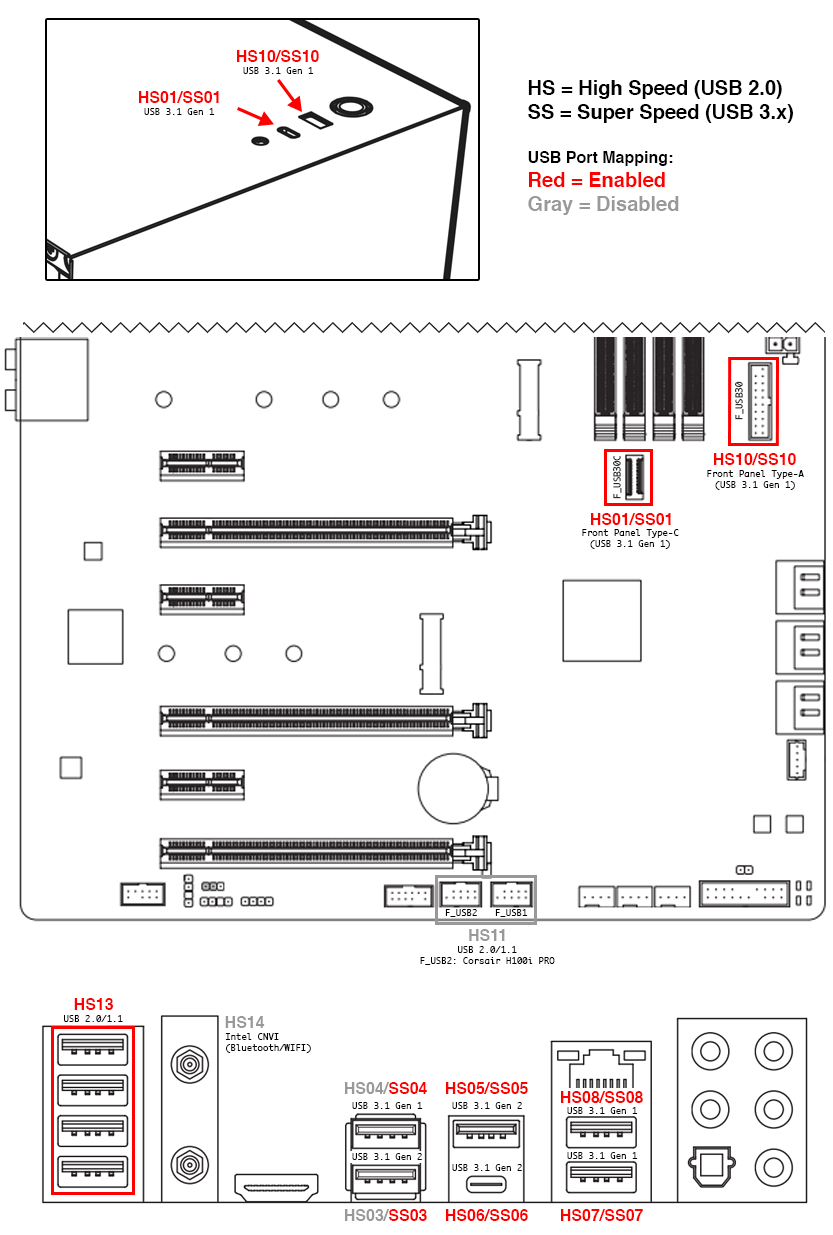
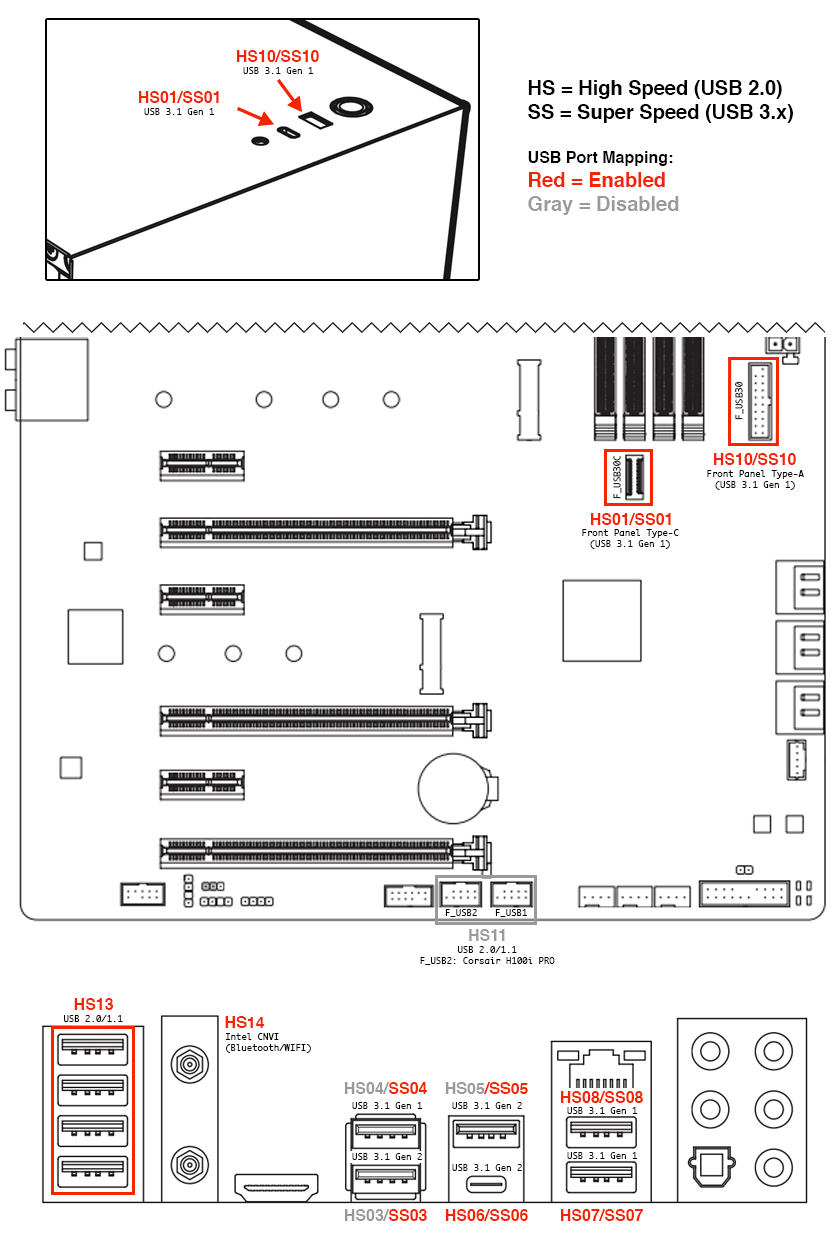
Updated guide for enabling native Bluetooth

diff --git a/README.md b/README.md
@@ -20,6 +20,7 @@ Installation guide for my vanilla Hackintosh v3 build dual-booting macOS Catalin
   * [Make macOS Drive Bootable](#make-macos-drive-bootable)
   * [Enable the Discrete Graphics Card with Headless iGPU](#enable-the-discrete-graphics-card-with-headless-igpu)
   * [Map USB Ports](#map-usb-ports)
+  * [Enable Bluetooth](#enable-bluetooth)
   * [Enable FileVault](#enable-filevault)
   * [Enable TRIM for Solid State Drives](#enable-trim-for-solid-state-drives)
   * [Fix CPU Type in About This Mac](#fix-cpu-type-in-about-this-mac)
@@ -271,9 +272,10 @@ _If you have the Gigabyte Z390 AORUS PRO WIFI motherboard and want the same USB 
     1. Press `a` then `[enter]` to enable all ports
     2. Using the list of identified ports, enter the numbers of the ports you want to **disable**
         * No more than 15 XHC ports can be enabled
-        * `2,3,4,9,11,12,14,15,16,18,25` → `HS02,HS03,HS04,HS09,HS11,HS12,HS14,USR1,USR2,SS02,SS09`
-          * Disables Bluetooth, AIO control, and USB 2.0 for the two ports immediately beneath the HDMI port
-        * The enabled ports are red and the disabled ports are gray in the image above
+        * `2,3,4,5,9,11,12,15,16,18,25` → `HS02,HS03,HS04,HS05,HS09,HS11,HS12,USR1,USR2,SS02,SS09`
+          * Disables AIO control via the internal header and USB 2.0 for three rear Type-A ports
+          * If you don't need Bluetooth, you can disable `HS14` and enable one of the disabled USB 2.0 ports
+        * The **enabled ports are red** and the **disabled ports are gray** in the image above
     3. Press `k` then `[enter]` to build the custom USBMap.kext file
     4. Allow the program to move the files to your EFI partition or copy them manually:
         * `USBMap.kext` → [`EFI/CLOVER/kexts/Other/`](EFI/CLOVER/kexts/Other/)
@@ -287,6 +289,15 @@ _If you have the Gigabyte Z390 AORUS PRO WIFI motherboard and want the same USB 
       * Remove the `com.apple.driver.usb.AppleUSBXHCI` kext patch
 6. Delete the `USBInjectAll.kext` from `EFI/CLOVER/kexts/Other/` on the EFI partition of `Macintosh SSD`
 7. You should now have fully custom-mapped USB ports on your system! Use the USBMap script after a reboot to verify the correct ports are enabled.
+
+### Enable Bluetooth
+
+The Intel CNVi modules that provide integrated Wi-Fi and Bluetooth functionality on motherboards are not natively supported by macOS but can be enabled using the [IntelBluetoothFirmware](https://github.com/zxystd/IntelBluetoothFirmware) kext on supported devices. The Gigabyte Z390 AORUS PRO WIFI contains a compatible [Intel Wireless-AC 9560](https://www.intel.com/content/www/us/en/products/wireless/wireless-products/dual-band-wireless-ac-9560.html) CNVi (Vendor ID: `0x8087`, Device ID: `0x0AAA`). [Hackintool](https://www.insanelymac.com/forum/topic/335018-hackintool-v286/) can be used to determine the specific model on your motherboard (`System > Peripherals > Bluetooth`).
+  * _Note: You must enable the internal USB port used by the CNVi module during the [USB mapping process](#map-usb-ports)._
+
+Download the [latest release](https://github.com/zxystd/IntelBluetoothFirmware/releases) and place the two kexts in [`EFI/CLOVER/kexts/Other/`](EFI/CLOVER/kexts/Other/). Reboot and you should be able to use Bluetooth on your Hackintosh.
+
+![Bluetooth System Report and Preferences](Screenshots/Post_Bluetooth.png)
 
 ### Enable FileVault
 
@@ -458,6 +469,7 @@ _All values are the average of three runs_
 
 ## Upgrade Log
 
+* 2020-04-18: Enabled integrated Bluetooth functionality using [IntelBluetoothFirmware v1.0.3](https://github.com/zxystd/IntelBluetoothFirmware). See the [Enable Bluetooth](#enable-bluetooth) section.
 * 2020-04-17: Upgraded to [Clover Configurator v5.10.0.0](http://mackie100projects.altervista.org/download-clover-configurator/), [Clover v5.0 r5112](https://github.com/CloverHackyColor/CloverBootloader/releases/tag/5112), [AppleALC 1.4.8](https://github.com/acidanthera/AppleALC/releases/tag/1.4.8), [Lilu 1.4.3](https://github.com/acidanthera/Lilu/releases/tag/1.4.3), [WhateverGreen 1.3.8](https://github.com/acidanthera/WhateverGreen/releases/tag/1.3.8), and [Virtual SMC 1.1.2](https://github.com/acidanthera/VirtualSMC/releases/tag/1.1.2). Upgraded to [macOS 10.15.4]() via Software Update (Note: Requires at minimum [Clover v2.5k-5104](https://github.com/CloverHackyColor/CloverBootloader/releases/tag/5104)).
 * 2020-02-01: Upgraded to [Clover Configurator v5.9.2.1](http://mackie100projects.altervista.org/download-clover-configurator/), [Clover v2.5k_r5103](https://github.com/Dids/clover-builder/releases/tag/v2.5k_r5103), [AppleALC 1.4.5](https://github.com/acidanthera/AppleALC/releases/tag/1.4.5), [Lilu 1.4.1](https://github.com/acidanthera/Lilu/releases/tag/1.4.1), [WhateverGreen 1.3.6](https://github.com/acidanthera/WhateverGreen/releases/tag/1.3.6), and [Virtual SMC 1.1.0](https://github.com/acidanthera/VirtualSMC/releases/tag/1.1.0). Upgraded to [macOS 10.15.3](https://support.apple.com/kb/DL2029) via Software Update.
 * 2019-12-18: Upgraded to [macOS 10.15.2](https://support.apple.com/kb/DL2025) via Software Update
